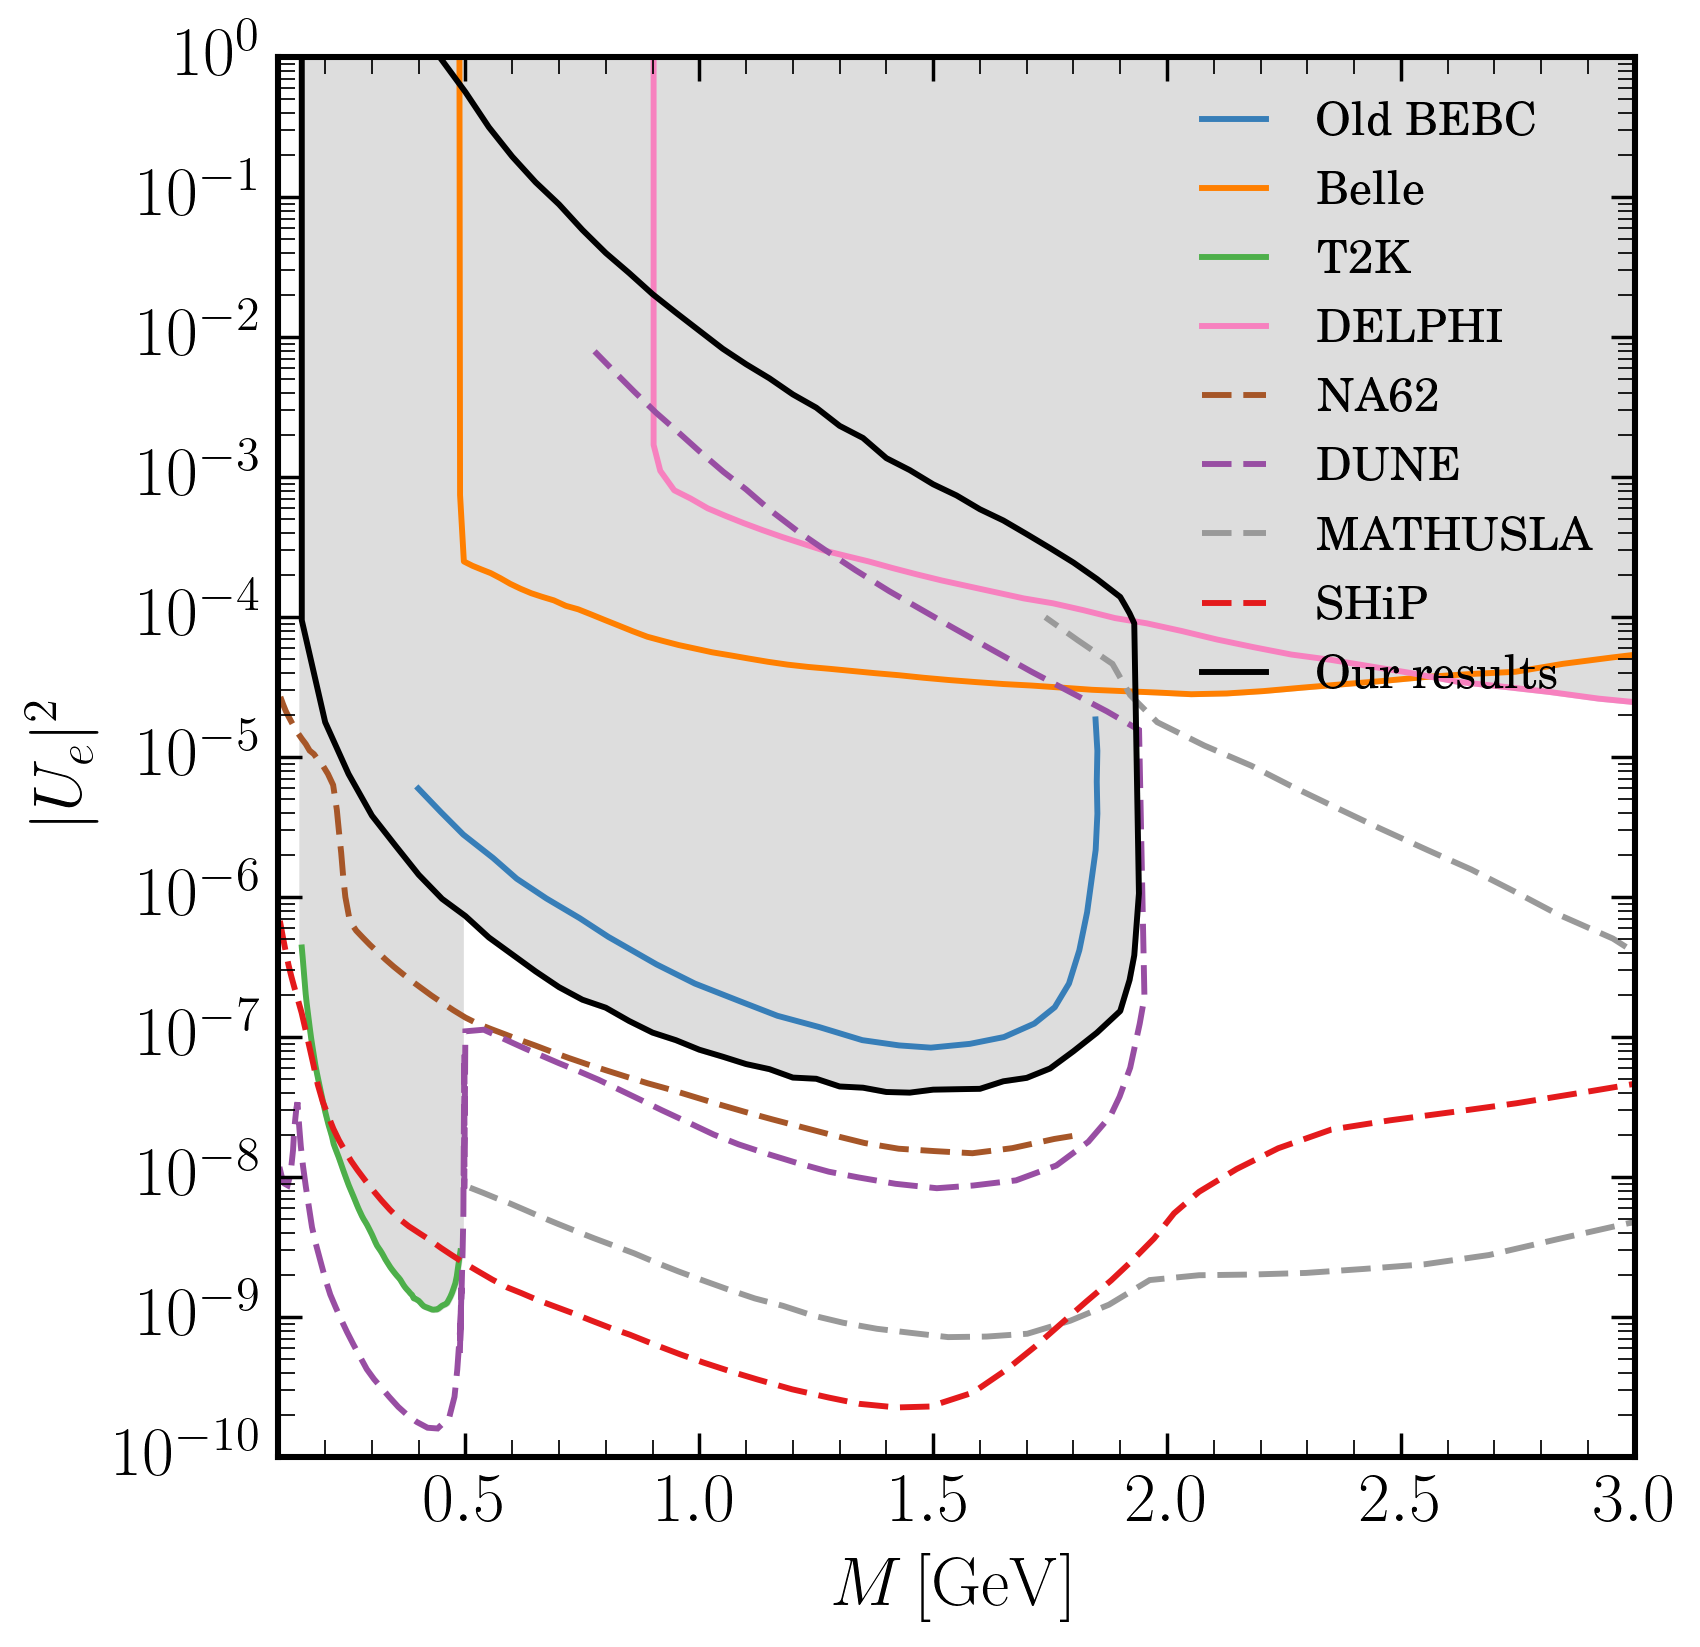
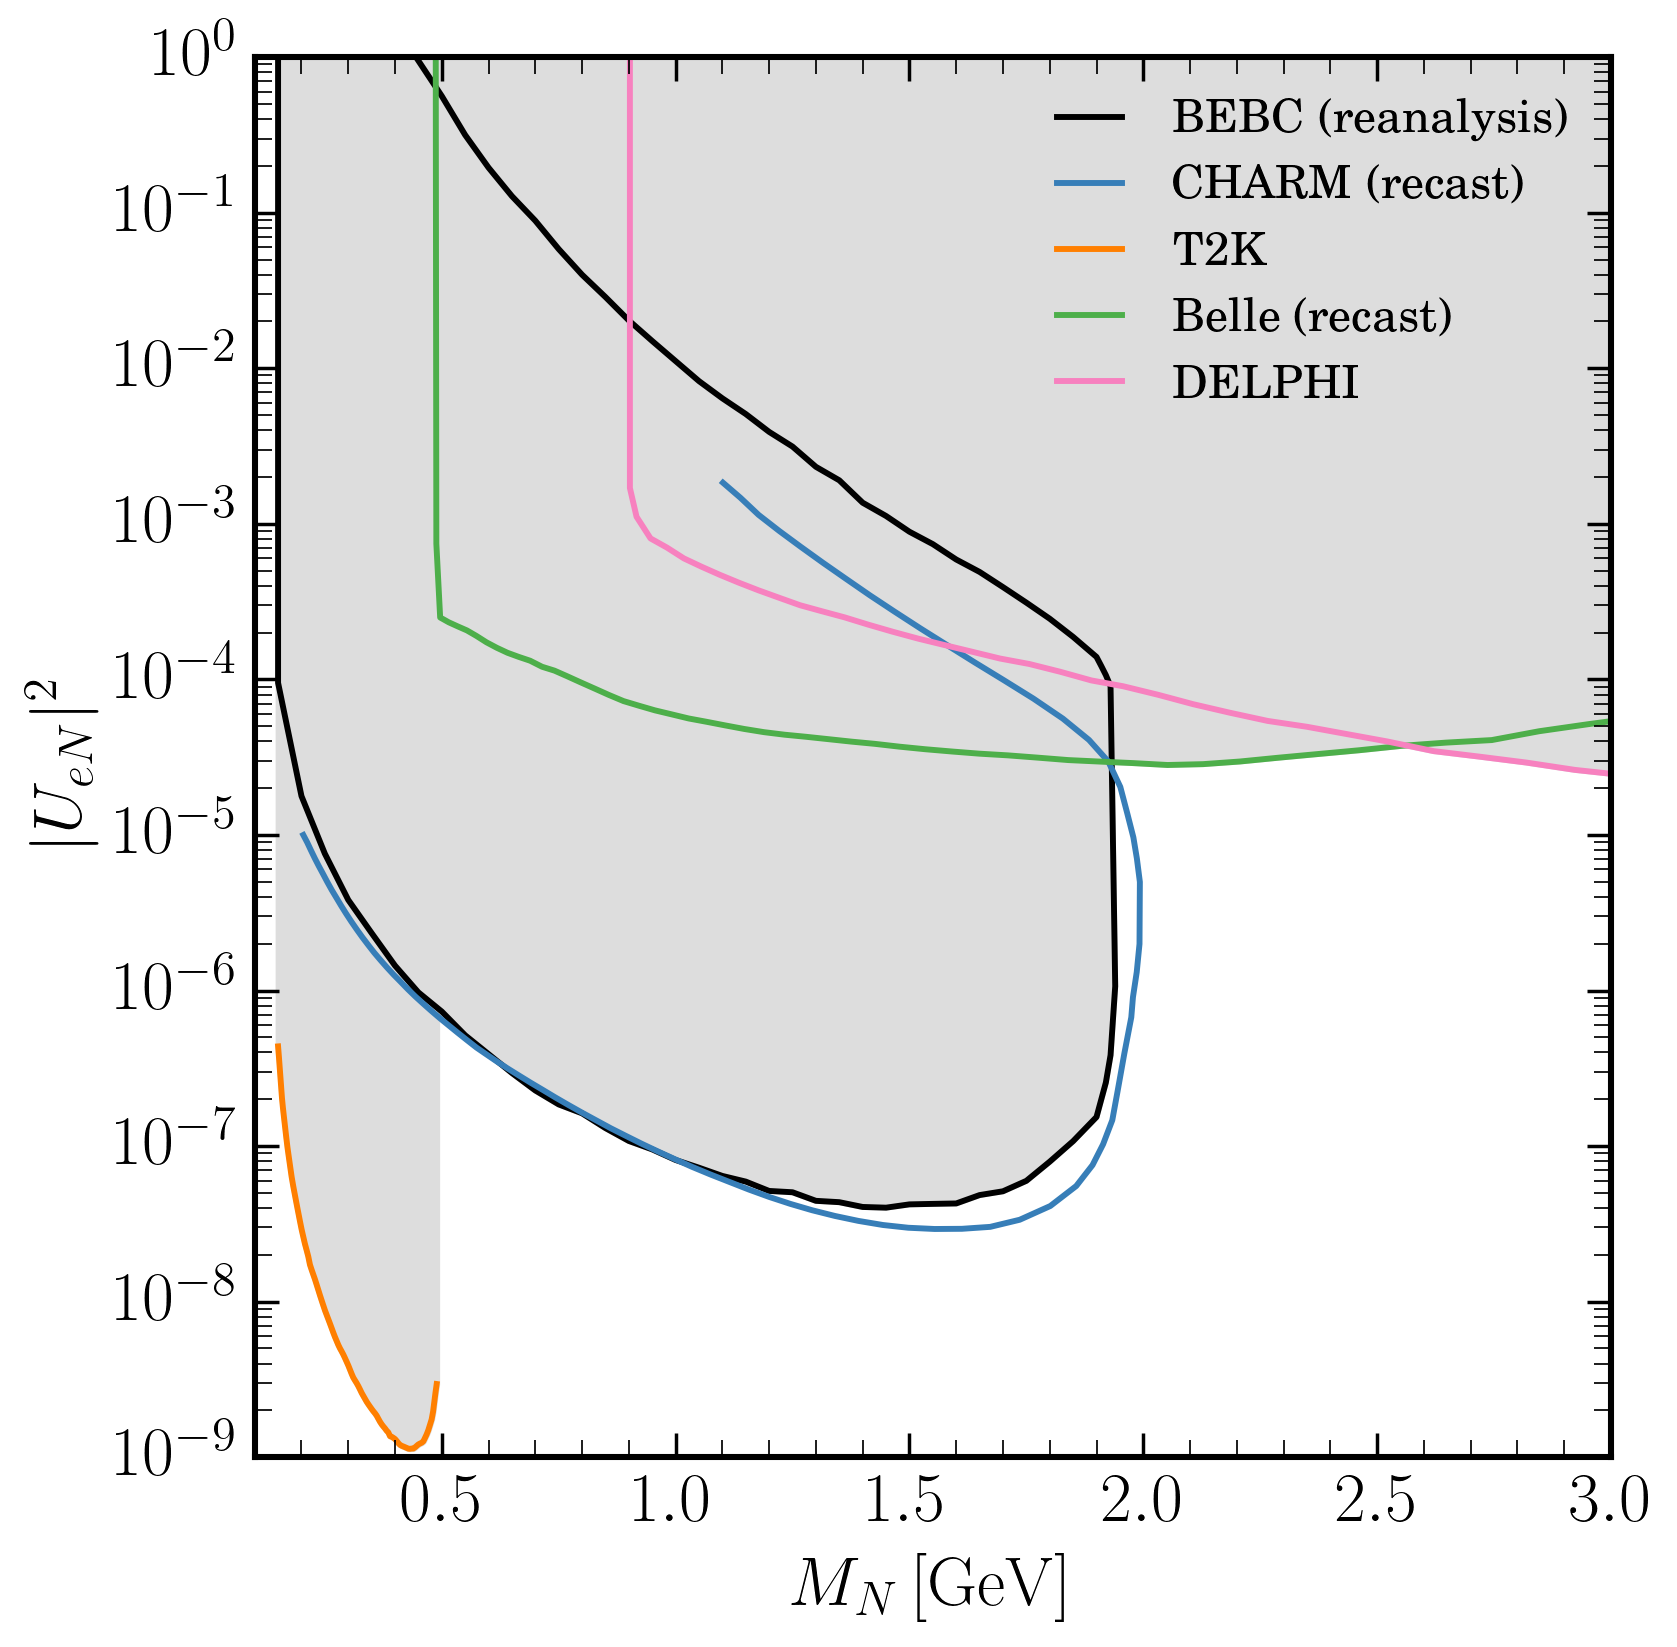
added updated charm bounds

diff --git a/src/experimental_constants.py b/src/experimental_constants.py
@@ -14,35 +14,48 @@ def get_experimental_constants(experiment):
         ELECTRON_HNL_CHANNELS = ["e+pos+nu", "mu+e+nu", "e+pi", "mu+mu+nu"]
         TAU_HNL_CHANNELS = ["e+pos+nu", "mu+mu+nu"] 
         ELECTRON_NU_MASSLESS_FLUX = 4.1e-4 * 2.72e18
-        OBSERVED_EVENTS = 2.3 # 2.3
+        OBSERVED_EVENTS = 3.5 # 2.3
         BEAM_ENERGY = 400 #GeV
         NUCLEON_MASS = 1. #GeV
         POT = 2.72e18
         bMesonFraction = 1.6e-7
+        muon_e_min = 3. #GeV
+        mT_max = 1.85 #GeV
+
         
-    elif experiment == Experiment.NuTeV:
-        DETECTOR_OPENING_ANGLE = 1.69/1400 #2.52/404 
-        DETECTOR_LENGTH = 34 * 5.08e15 # GeV^-1
-        DETECTOR_DISTANCE = 1400 * 5.08e15 # GeV^-1
-        ELECTRON_HNL_CHANNELS = ["mu+mu+nu"]
-        TAU_HNL_CHANNELS = ["mu+mu+nu"] 
-        ELECTRON_NU_MASSLESS_FLUX = 4.1e-4 * 2.54e18
-        OBSERVED_EVENTS = 2.3 # 2.3
-        BEAM_ENERGY = 800 #GeV
-        NUCLEON_MASS = 1. #GeV
-        POT = 2.54e18
-        bMesonFraction = 1.6e-6
+    # elif experiment == Experiment.NuTeV:
+    #     DETECTOR_OPENING_ANGLE = 1.69/1400 #2.52/404 
+    #     DETECTOR_LENGTH = 34 * 5.08e15 # GeV^-1
+    #     DETECTOR_DISTANCE = 1400 * 5.08e15 # GeV^-1
+    #     ELECTRON_HNL_CHANNELS = ["mu+mu+nu"]
+    #     TAU_HNL_CHANNELS = ["mu+mu+nu"] 
+    #     ELECTRON_NU_MASSLESS_FLUX = 4.1e-4 * 2.54e18
+    #     OBSERVED_EVENTS = 2.3 # 2.3
+    #     BEAM_ENERGY = 800 #GeV
+    #     NUCLEON_MASS = 1. #GeV
+    #     POT = 2.54e18
+    #     bMesonFraction = 1.6e-6
+    #     muon_e_min = 6. #GeV
+    #     mT_max = 3 #GeV
+
         
-    elif experiment == 3: # SHiP
+    elif experiment == Experiment.NuTeV: # SHiP
         DETECTOR_OPENING_ANGLE = 4/50 #2.52/404 
         DETECTOR_LENGTH = 50 * 5.08e15 # GeV^-1
         DETECTOR_DISTANCE = 50 * 5.08e15 # GeV^-1
         ELECTRON_HNL_CHANNELS = ["e+pos+nu", "mu+e+nu", "e+pi", "mu+mu+nu"]
         TAU_HNL_CHANNELS = ["e+pos+nu", "mu+mu+nu"] 
-        ELECTRON_NU_MASSLESS_FLUX = 4.1e-4 * 2.72e18
+        ELECTRON_NU_MASSLESS_FLUX = 4.1e-4 * 2.72e20
         OBSERVED_EVENTS = 2.3 # 2.3
         BEAM_ENERGY = 400 #GeV
         NUCLEON_MASS = 1. #GeV
-        POT = 2.54e18
+        POT = 2.54e20
+        bMesonFraction = 1.6e-7
+        muon_e_min = 3. #GeV
+        mT_max = 1.85 #GeV
+
             
-    return [DETECTOR_OPENING_ANGLE, DETECTOR_LENGTH, DETECTOR_DISTANCE, ELECTRON_HNL_CHANNELS, TAU_HNL_CHANNELS, ELECTRON_NU_MASSLESS_FLUX,OBSERVED_EVENTS,BEAM_ENERGY,NUCLEON_MASS,POT, bMesonFraction ]
+    return [DETECTOR_OPENING_ANGLE, DETECTOR_LENGTH, DETECTOR_DISTANCE,
+            ELECTRON_HNL_CHANNELS, TAU_HNL_CHANNELS, ELECTRON_NU_MASSLESS_FLUX,
+            OBSERVED_EVENTS,BEAM_ENERGY,NUCLEON_MASS,POT, 
+            bMesonFraction,muon_e_min,mT_max ]

diff --git a/scripts/non_linear_calc.py b/scripts/non_linear_calc.py
@@ -14,9 +14,10 @@ from src.beam import BeamExperiment
 from src.mixing_type import MixingType
 from src.signal_processor import SignalProcessor
 from src.logger import Logger
+from src.experiment import Experiment
 
-def total_decays_less_than_observed(hnl_mass, mixing_squared, num_samples, mixing_type):
-    beam = BeamExperiment(mixing_type=mixing_type, num_samples=num_samples).with_mixing(mixing_squared)
+def total_decays_less_than_observed(hnl_mass, mixing_squared, experiment, num_samples, mixing_type):
+    beam = BeamExperiment(mixing_type=mixing_type,experiment=experiment, num_samples=num_samples).with_mixing(mixing_squared)
 
     beam.start_dump(hnl_mass)
     total_decays_less_than_observed = SignalProcessor(beam).total_decays_less_than_observed()
@@ -24,7 +25,7 @@ def total_decays_less_than_observed(hnl_mass, mixing_squared, num_samples, mixin
     return total_decays_less_than_observed
 
 def main():
-    hnl_masses, mass_range, num_samples, debug, mixing_type, plot, save, bound= parse_arguments()
+    hnl_masses, mass_range, num_samples, debug, mixing_type, plot, save, bound, experiment = parse_arguments()
     file = open(f"./{bound}_bound_data/{bound}_bounds_{mixing_type}_non_linear.csv", "a")
     logger = Logger(debug=debug)
     lower_bounds = []
@@ -43,7 +44,7 @@ def main():
         closest_bound = 0
         while abs((prev_mixing - mixing)/mixing) > 0.0005 and it < 25: 
             logger.log(f"Mixing: {mixing}")
-            less_decays_than_observed = total_decays_less_than_observed(hnl_mass, mixing, num_samples, mixing_type)
+            less_decays_than_observed = total_decays_less_than_observed(hnl_mass, mixing, experiment, num_samples, mixing_type)
 
             diff = abs(less_decays_than_observed)
             if diff < min_difference:
@@ -87,6 +88,7 @@ def parse_arguments():
     parser.add_argument('--debug', action='store_true', help="Print debug logs")
     parser.add_argument('--plot', action='store_true', help="Plot upper bounds")
     parser.add_argument('--save', action='store_true', help="Save data to file")
+    parser.add_argument('--exp', type=str, choices=['BEBC', 'NuTeV'], help="valid values: 'BEBC' or 'NuTeV'", default = 'BEBC')
     args = parser.parse_args()
 
     hnl_masses = args.m
@@ -97,7 +99,8 @@ def parse_arguments():
     plot = args.plot
     save = args.save
     mixing_type = MixingType[args.mixing]
-    return hnl_masses,mass_range,num_samples,debug,mixing_type,plot,save,bound
+    experiment = Experiment[args.exp]
+    return hnl_masses,mass_range,num_samples,debug,mixing_type,plot,save,bound,experiment
 
 if __name__ == "__main__":
     main()

diff --git a/scripts/plot_electron_bounds.py b/scripts/plot_electron_bounds.py
@@ -37,22 +37,29 @@ def main():
     lower_bounds = np.array(lower_bounds)
     upper_bounds = np.array(upper_bounds)
     bounds = np.append(upper_bounds, lower_bounds, axis=0)
+    
+    x, y = get_cols(charm)
+    x0, y0 = x.mean(), y.mean()
+    angle = np.arctan2(y - y0, x - x0)
+    
+    idx = angle.argsort()
+    x, y = x[idx], y[idx]
+
 
     # # ------------------------ Plotting --------------------------------
     dpi = 250
     fig = plt.figure(figsize=(7, 7), dpi=dpi)
-    plt.xlabel(r'$M\, [ \mathrm{GeV}]$')
-    plt.ylabel(r'$|U_{e}|^2$')
-    plt.plot(*get_cols(bebc), label="Old BEBC")
-    # plt.plot(*get_cols(charm), label="CHARM")
-    plt.plot(*get_cols(belle), label="Belle")
+    plt.xlabel(r'$M_N\, [ \mathrm{GeV}]$')
+    plt.ylabel(r'$|U_{eN}|^2$')
+    plt.plot(*get_cols(bounds), 'k', label="BEBC (reanalysis)")
+    plt.plot(x,y, label="CHARM (recast)")
     plt.plot(*get_cols(t2k), label="T2K")
+    plt.plot(*get_cols(belle), label="Belle (recast)")
     plt.plot(*get_cols(delphi), label="DELPHI")
-    plt.plot(*get_cols(na62), '--', dashes=(5,2), label="NA62")
-    plt.plot(*get_cols(dune), '--', dashes=(5,2), label="DUNE")
-    plt.plot(*get_cols(mathusla), '--', dashes=(5,2), label="MATHUSLA")
-    plt.plot(*get_cols(ship), '--', dashes=(5,2), label="SHiP")
-    plt.plot(*get_cols(bounds), 'k', label="Our results")
+    # plt.plot(*get_cols(na62), '--', dashes=(5,2), label="NA62")
+    # plt.plot(*get_cols(dune), '--', dashes=(5,2), label="DUNE")
+    # plt.plot(*get_cols(mathusla), '--', dashes=(5,2), label="MATHUSLA")
+    # plt.plot(*get_cols(ship), '--', dashes=(5,2), label="SHiP")
     plt.legend(fontsize="small")
     plt.yscale('log')
     plt.xlim([0.1,3])
@@ -61,9 +68,8 @@ def main():
     plt.fill_between(*get_cols(belle), 1, color="#ddd")
     plt.fill_between(*get_cols(t2k), 1, color="#ddd")
     dirname = os.path.dirname(os.path.abspath(__file__))
-    plt.savefig(os.path.join(dirname, f"../recent_graphs/mass_bound_plot[{mixing_type}]1.png"), dpi=dpi)
+    plt.savefig(os.path.join(dirname, f"../recent_graphs/mass_bound_plot[{mixing_type}].png"), dpi=dpi)
     plt.show()
-
 def get_cols(array: np.ndarray):
     return (array[:,0], array[:,1])
 

diff --git a/src/beam.py b/src/beam.py
@@ -25,6 +25,8 @@ class BeamExperiment:
         self.detector_distance = get_experimental_constants(experiment)[2]
         self.POT = get_experimental_constants(experiment)[9]
         self.bMesonFraction = get_experimental_constants(experiment)[10]
+        self.muon_e_min = get_experimental_constants(experiment)[11]
+        self.mT_max = get_experimental_constants(experiment)[12]
         self.linear_regime = True
         self.mixing_squared = 1
         self.mixing_type = mixing_type

diff --git a/src/particles/hnl.py b/src/particles/hnl.py
@@ -108,7 +108,6 @@ class HNL(Particle):
 
     def __get_prop_factor_for_regime(self, partial_decay):
         if self.beam.linear_regime:
-            print("detectorLength:", self.beam.detector_length)
             return self.__average_propagation_factor(self.beam.detector_length, partial_decay)
         else:
             total_decay = self.__total_decay_rate()
